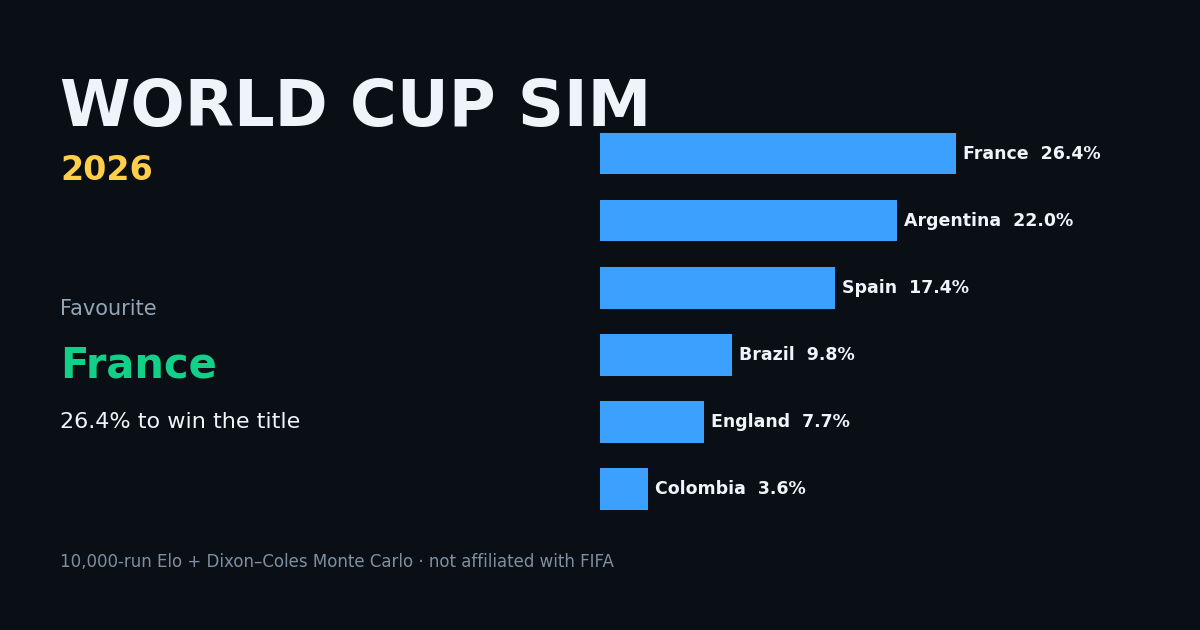
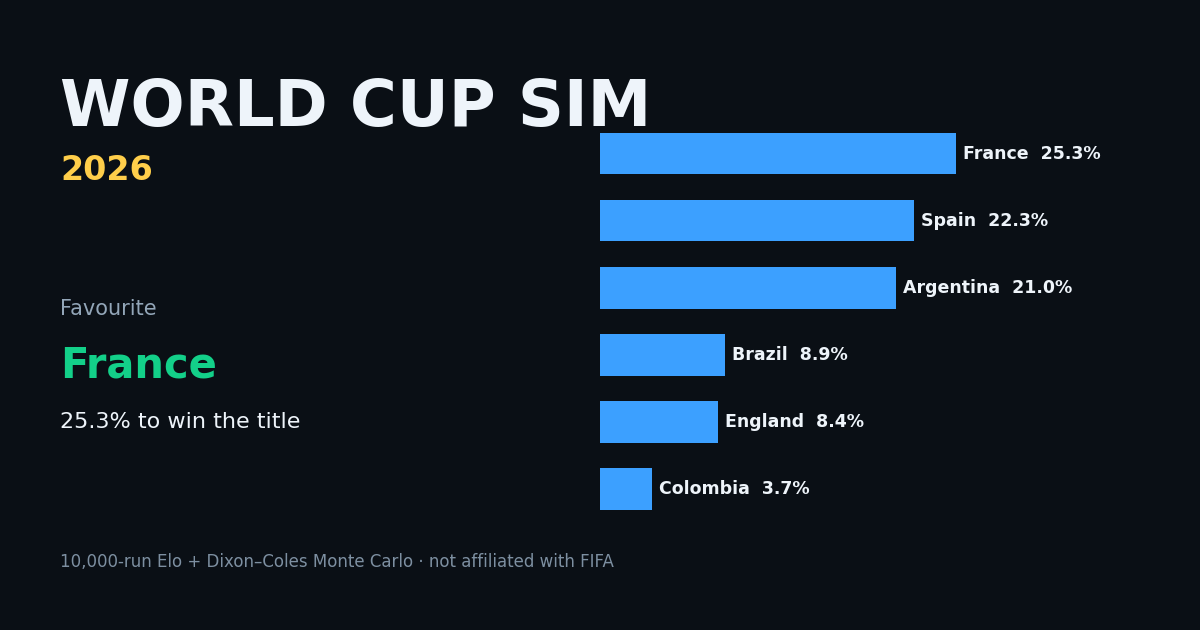
Deploy dashboard — 2026-07-02T23:39:11Z

diff --git a/app.js b/app.js
@@ -294,9 +294,20 @@
     return { R32: "Round of 32", R16: "Round of 16", QF: "Quarter-final", SF: "Semi-final",
       Final: "Final", Champion: "Champion" }[code] || code;
   }
-  // Render the "who reaches this slot" distribution for a clicked, undecided bracket slot.
+  // Render the odds for a clicked, undecided bracket slot. When the feeding match is already SET
+  // (both sides known but unplayed) show its full resolution — extra time, penalties, advance split;
+  // otherwise show the "who reaches this slot" reach distribution over every contender.
   function showSlotDist(distEl, cell, stageCode) {
     if (!distEl) return;
+    if (cell.match) {
+      distEl.innerHTML = '<div class="bk-dist-head"><b>' + esc(cell.match.home) + " v " +
+        esc(cell.match.away) + '</b><span class="faint">next match for this ' +
+        esc(koRoundName(stageCode)) + " slot · a knockout can't end level</span></div>" +
+        koOutcomeHtml(cell.match);
+      distEl.style.display = "";
+      distEl.scrollIntoView({ behavior: "smooth", block: "nearest" });
+      return;
+    }
     var cands = cell.candidates || [];
     var title = stageCode === "Champion" ? "Who lifts the trophy?"
       : "Who reaches this " + koRoundName(stageCode) + " slot?";
@@ -1484,6 +1495,47 @@
     return lab ? '<span class="tier ko">' + lab + "</span>" : "";
   }
 
+  // ---- knockout outcome distribution (a KO tie can't end level) ----
+  function koPct(x) { return (x * 100 < 0.5 ? "<0.5" : (x * 100).toFixed(0)) + "%"; }
+  function advBar(ko) {  // two-way advance bar (home | away), reusing the W/D/L bar styling
+    return '<span class="wdlbar"><i class="bh" style="width:' + (ko.advance.home * 100) +
+      '%"></i><i class="ba" style="width:' + (ko.advance.away * 100) + '%"></i></span>';
+  }
+  function koModeRow(label, ph, pa) {  // one phase: home% | label | away%
+    return '<div class="ko-mrow"><span class="hv">' + koPct(ph) + '</span>' +
+      '<div class="qbar"><i class="bh" style="width:' + (ph * 100) + '%"></i></div>' +
+      '<span class="lbl">' + label + '</span>' +
+      '<div class="qbar rev"><i class="ba" style="width:' + (pa * 100) + '%"></i></div>' +
+      '<span class="av">' + koPct(pa) + "</span></div>";
+  }
+  // Full breakdown panel (match detail + bracket slot). The six mutually-exclusive outcomes
+  // (each team × win-in-90 / after-ET / on-pens) sum to 1.
+  function koOutcomeHtml(ko) {
+    var h = ko.home, a = ko.away, wm = ko.win_mode, xg = ko.xg;
+    return '<div class="ko-adv">' + flagImg(h, "sm") + " " + esc(h) + " <b>" + koPct(ko.advance.home) +
+      '</b><span class="faint">advance</span><b>' + koPct(ko.advance.away) + "</b> " + esc(a) + " " +
+      flagImg(a, "sm") + "</div>" + advBar(ko) +
+      '<div class="ko-modes">' +
+        koModeRow("in 90 minutes", wm.home.reg, wm.away.reg) +
+        koModeRow("after extra time", wm.home.et, wm.away.et) +
+        koModeRow("on penalties", wm.home.pens, wm.away.pens) +
+      "</div>" +
+      '<div class="faint ko-meta">extra time <b>' + koPct(ko.p_extra_time) + "</b> · penalties <b>" +
+        koPct(ko.p_penalties) + "</b> · shootout edge " + esc(h) + " " + koPct(ko.pens_winprob.home) +
+        " / " + esc(a) + " " + koPct(ko.pens_winprob.away) + "</div>" +
+      '<div class="faint ko-meta">xG incl. extra time: ' + esc(h) + " " + xg.total.home.toFixed(2) +
+        " · " + esc(a) + " " + xg.total.away.toFixed(2) +
+        ' <span title="a penalty shootout is not open play">(shootout excluded)</span></div>';
+  }
+  // Compact card version: advance bar + a one-line ET / pens / xG summary.
+  function koCardHtml(ko) {
+    return '<div class="mc-adv">' + esc(ko.home) + " <b>" + koPct(ko.advance.home) +
+      '</b> <span class="faint">adv</span> <b>' + koPct(ko.advance.away) + "</b> " + esc(ko.away) +
+      "</div>" + advBar(ko) +
+      '<div class="mc-fav faint">ET ' + koPct(ko.p_extra_time) + " · pens " + koPct(ko.p_penalties) +
+      " · xG " + ko.xg.total.home.toFixed(1) + "–" + ko.xg.total.away.toFixed(1) + "</div>";
+  }
+
   function renderMatches(root, date) {
     var wrap = ce("div", "wrap"); root.appendChild(wrap);
     var sched = D.schedule || [], dates = scheduleDates();
@@ -1526,6 +1578,12 @@
           '<div class="mc-city">' + esc(f.city || "") + stageChip(f) + '<span class="chip ' + (called ? "pos" : "neg") + '" style="margin-left:auto">' + (called ? "✓ called" : "✗ missed") + "</span></div>" +
           '<div class="mc-teams"><span>' + flagImg(f.home, "sm") + " " + esc(f.home) + '</span><b class="mc-score">' + rs.home_goals + "–" + rs.away_goals + "</b><span>" + esc(f.away) + " " + flagImg(f.away, "sm") + "</span></div>" +
           '<div class="mc-fav faint">Full time' + pens + " · pre-match " + esc(fav) + " " + (favp * 100).toFixed(0) + "% win</div>";
+      } else if (f.ko) {
+        // Knockout tie — can't end level: show advance / ET / penalties, not a W/D/L incl. a draw.
+        a.innerHTML =
+          '<div class="mc-city">' + esc(f.city || "") + stageChip(f) + "</div>" +
+          '<div class="mc-teams"><span>' + flagImg(f.home, "sm") + " " + esc(f.home) + "</span><span class='faint'>v</span><span>" + esc(f.away) + " " + flagImg(f.away, "sm") + "</span></div>" +
+          koCardHtml(f.ko);
       } else {
         a.innerHTML =
           '<div class="mc-city">' + esc(f.city || "") + stageChip(f) + tierChip(p) + "</div>" +
@@ -1564,6 +1622,13 @@
     card.innerHTML += '<div class="statrow" style="margin-top:14px"><div class="hv">' + p.lambda_home.toFixed(2) + '</div><div class="bar"><i class="bh" style="width:' + (p.lambda_home / (p.lambda_home + p.lambda_away) * 100) + '%"></i></div><div class="lbl">Expected goals</div><div class="bar"><i class="ba" style="width:' + (p.lambda_away / (p.lambda_home + p.lambda_away) * 100) + '%"></i></div><div class="av">' + p.lambda_away.toFixed(2) + "</div></div>";
     card.innerHTML += '<div class="faint" style="text-align:center;margin-top:8px;font-size:13px">expected total ' + p.expected_total.toFixed(1) + " goals</div>";
     wrap.appendChild(card);
+    // Knockout tie: the W/D/L above is the 90-minute picture; a KO can't end level, so show how the
+    // draw resolves — extra time, penalties, the advance split, and xG including extra time.
+    if (f.ko && !f.played) {
+      var kp = ce("div", "panel");
+      kp.innerHTML = '<h4 class="mini-h">How the tie resolves <span class="faint">· a knockout can\'t end level</span></h4>' + koOutcomeHtml(f.ko);
+      wrap.appendChild(kp);
+    }
     var pd = ce("div", "panel"); pd.innerHTML = '<h4 class="mini-h">Scoreline distribution <span class="faint">· Dixon–Coles</span></h4>'; pd.appendChild(scoreDistEl(p, n0, n1)); wrap.appendChild(pd);
     // View 1: the Realism Engine's generated box score for this fixture (from the offline slate).
     var sl = (D.realism_slate || {})[n0 + "|" + n1] || (D.realism_slate || {})[n1 + "|" + n0];

diff --git a/styles.css b/styles.css
@@ -255,6 +255,20 @@ table.tbl tbody tr:hover { background: var(--panel-2); }
 .bk-drow.on { background: color-mix(in srgb, var(--accent) 14%, transparent); }
 .bk-drow.on .nm { font-weight: 800; } .bk-drow.on .qbar > i { background: var(--accent); }
 
+/* ---- knockout outcome distribution (extra time / penalties / advance) ---- */
+.ko-adv { display: flex; align-items: center; justify-content: center; gap: var(--space-2); font-size: var(--fs-2); font-weight: 700; margin-bottom: 6px; }
+.ko-adv .faint { font-weight: 500; font-size: var(--fs-0); text-transform: uppercase; letter-spacing: .05em; }
+.ko-modes { display: flex; flex-direction: column; gap: 5px; margin-top: 10px; }
+.ko-mrow { display: flex; align-items: center; gap: var(--space-2); font-size: var(--fs-1); }
+.ko-mrow .hv { width: 42px; text-align: right; font-weight: 700; color: var(--home); }
+.ko-mrow .av { width: 42px; text-align: left; font-weight: 700; color: var(--away); }
+.ko-mrow .lbl { width: 116px; flex: 0 0 auto; text-align: center; color: var(--muted); font-size: var(--fs-0); }
+.ko-mrow .qbar { flex: 1; height: 7px; border-radius: 3px; background: var(--panel-2); overflow: hidden; display: flex; }
+.ko-mrow .qbar.rev { justify-content: flex-end; }
+.ko-mrow .qbar > i { height: 100%; } .ko-mrow .qbar > i.bh { background: var(--home); } .ko-mrow .qbar > i.ba { background: var(--away); }
+.ko-meta { font-size: 12px; margin-top: 6px; text-align: center; }
+.mc-adv { font-size: var(--fs-1); margin: 4px 0 6px; text-align: center; }
+
 /* ---- golden boot ---- */
 .gb-podium { display: grid; grid-template-columns: repeat(3,1fr); gap: var(--space-4); margin-bottom: var(--space-4); }
 @media (max-width:700px){ .gb-podium { grid-template-columns: 1fr; } }